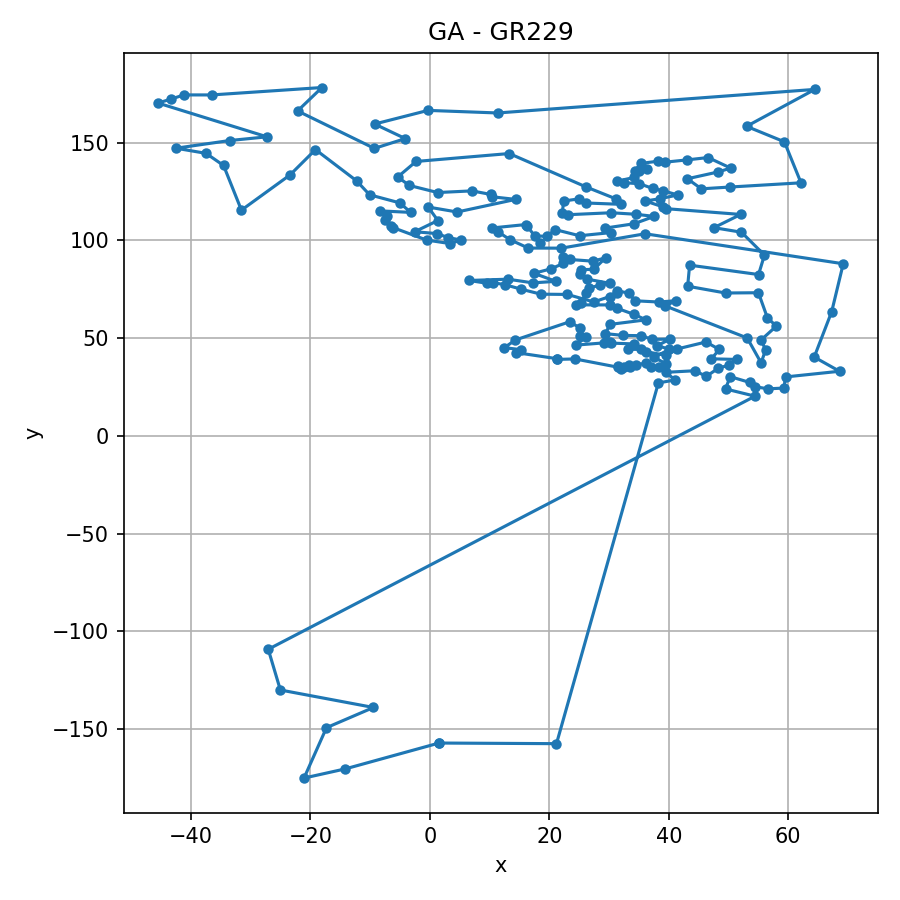
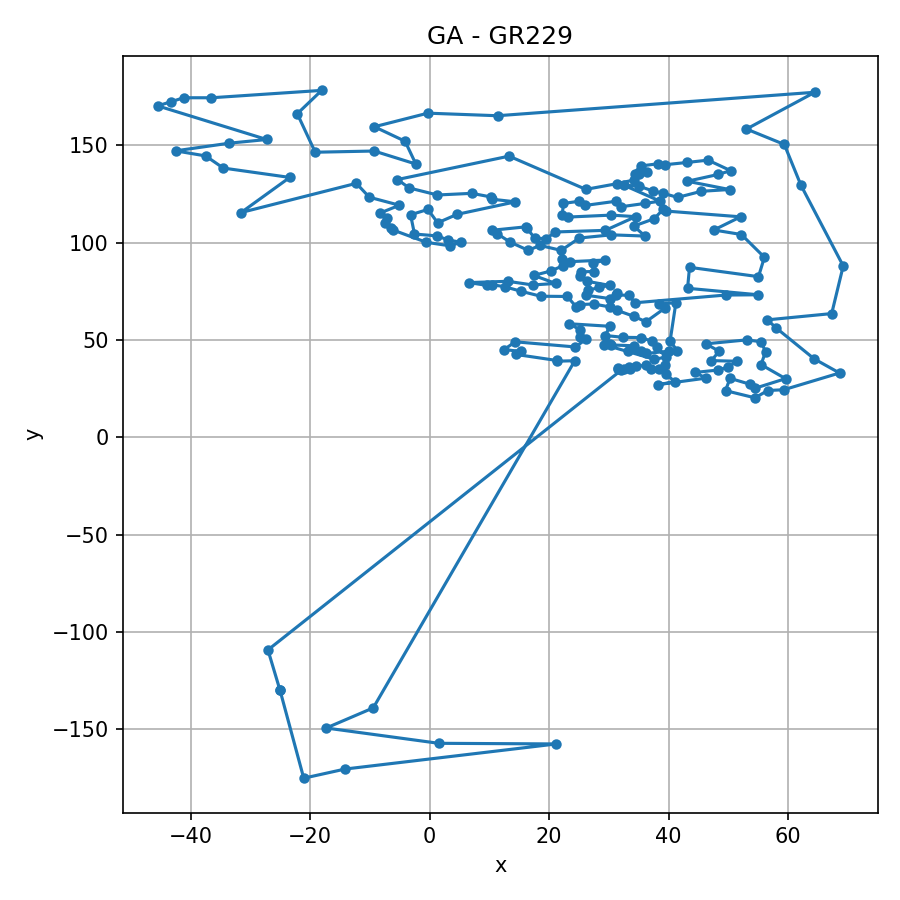
error reduction for GA fix

diff --git a/ga.py b/ga.py
@@ -1,39 +1,71 @@
 import numpy as np
 import random
-from distance import total_distance  # opcional; usamos safe_total_distance internamente
+from distance import total_distance
 
 
 # =========================
 # Utilidades de robustez
 # =========================
 def is_valid_perm(route, n):
-    return len(route) == n and len(set(route)) == n and min(route) >= 0 and max(route) < n
+    """Verifica si una ruta es una permutación válida de 0..n-1."""
+    if route is None or len(route) != n:
+        return False
+    try:
+        if min(route) < 0 or max(route) >= n:
+            return False
+    except ValueError:
+        return False
+    return len(set(route)) == n
 
 
 def repair_permutation(route, n):
+    """Repara duplicados y faltantes en O(n)."""
+    if route is None:
+        return list(range(n))
+
     seen = set()
-    missing = [g for g in range(n) if g not in route]
-    miss_idx = 0
+    dup_positions = []
     for i, g in enumerate(route):
         if g in seen or g < 0 or g >= n:
-            route[i] = missing[miss_idx]
-            miss_idx += 1
+            dup_positions.append(i)
         else:
             seen.add(g)
+
+    missing = list(set(range(n)) - seen)
+    random.shuffle(missing)
+
+    for i, pos in enumerate(dup_positions):
+        if i < len(missing):
+            route[pos] = missing[i]
+        else:
+            route[pos] = random.randint(0, n - 1)
     return route
 
 
 def safe_total_distance(D, route, big_penalty=1e12):
+    """Evalúa distancia total de una ruta; repara si es necesario."""
     n = D.shape[0]
+    if route is None or len(route) != n:
+        return big_penalty
+
+    try:
+        route = [int(x) for x in route]
+    except Exception:
+        return big_penalty
+
     if not is_valid_perm(route, n):
         route = repair_permutation(route, n)
     if not is_valid_perm(route, n):
         return big_penalty
 
-    dist = 0.0
-    for i in range(n):
-        dist += D[route[i], route[(i + 1) % n]]
-    if dist <= 0.0:
+    try:
+        idx = np.asarray(route, dtype=np.int32)
+        nxt = np.roll(idx, -1)
+        dist = float(D[idx, nxt].sum())
+    except Exception:
+        return big_penalty
+
+    if dist <= 0.0 or np.isnan(dist):
         return big_penalty
     return dist
 
@@ -54,32 +86,23 @@ def order_crossover(p1, p2):
     n = len(p1)
     a, b = sorted(random.sample(range(n), 2))
     child = [-1] * n
-
-    # Copiar segmento de p1
     child[a:b] = p1[a:b]
     used = set(p1[a:b])
+
     p2_filtered = [gene for gene in p2 if gene not in used]
     idx = 0
     for i in range(n):
-        if child[i] == -1:
-            if idx < len(p2_filtered):
-                child[i] = p2_filtered[idx]
-                idx += 1
-            else:
-                break  
-    repair_permutation(child, n)
-    return child
+        if child[i] == -1 and idx < len(p2_filtered):
+            child[i] = p2_filtered[idx]
+            idx += 1
+    return repair_permutation(child, n)
 
 
 def pmx_crossover(p1, p2):
     n = len(p1)
     a, b = sorted(random.sample(range(n), 2))
     child = [-1] * n
-
-    # Copiar segmento central de p1
     child[a:b] = p1[a:b]
-
-    # Mapeo entre segmentos p2 -> p1
     mapping = {p2[i]: p1[i] for i in range(a, b)}
 
     for i in range(n):
@@ -92,9 +115,7 @@ def pmx_crossover(p1, p2):
             val = mapping[val]
         child[i] = val
 
-    # Relleno y reparación por seguridad
-    repair_permutation(child, n)
-    return child
+    return repair_permutation(child, n)
 
 
 # =========================
@@ -103,17 +124,15 @@ def pmx_crossover(p1, p2):
 def swap_mutation(route):
     a, b = random.sample(range(len(route)), 2)
     route[a], route[b] = route[b], route[a]
-    repair_permutation(route, len(route))
 
 
 def reverse_mutation(route):
     a, b = sorted(random.sample(range(len(route)), 2))
     route[a:b] = reversed(route[a:b])
-    repair_permutation(route, len(route))
 
 
 # =========================
-# Heurística para población inicial
+# Heurísticas iniciales
 # =========================
 def nearest_neighbor_route(D, start=0):
     n = D.shape[0]
@@ -122,7 +141,6 @@ def nearest_neighbor_route(D, start=0):
     unvisited.remove(start)
     while unvisited:
         last = route[-1]
-        # ciudad más cercana aún no visitada
         next_city = min(unvisited, key=lambda j: D[last, j])
         route.append(next_city)
         unvisited.remove(next_city)
@@ -130,17 +148,37 @@ def nearest_neighbor_route(D, start=0):
 
 
 # =========================
+# Refinamiento local (2-opt)
+# =========================
+def two_opt(route, D, max_trials=150):
+    """Refina una ruta intercambiando segmentos si reduce la distancia."""
+    n = len(route)
+    best = route[:]
+    best_dist = safe_total_distance(D, best)
+    for _ in range(max_trials):
+        i, j = sorted(random.sample(range(1, n), 2))
+        if j - i <= 1:
+            continue
+        new_route = best[:]
+        new_route[i:j] = reversed(best[i:j])
+        new_dist = safe_total_distance(D, new_route)
+        if new_dist < best_dist:
+            best, best_dist = new_route, new_dist
+    return best
+
+
+# =========================
 # Algoritmo Genético
 # =========================
 def genetic_algorithm_tsp(
     D,
-    N=200,
-    maxIter=800,
-    crossover_rate=0.7,
-    mutation_rate=0.4,
-    elite_k=3,
+    N=400,
+    maxIter=1200,
+    crossover_rate=0.85,
+    mutation_rate=0.28,
+    elite_k=5,
     seed=None,
-    log_every=0,  # 0 = sin logs, >0 imprime cada 'log_every' iteraciones
+    log_every=100,
 ):
 
     if seed is not None:
@@ -149,39 +187,36 @@ def genetic_algorithm_tsp(
 
     n = D.shape[0]
 
-    # --- Población inicial: 80% aleatoria + 20% heurística NN
-    pop = [list(np.random.permutation(n)) for _ in range(int(N * 0.8))]
+    # Población inicial: 70 % aleatoria, 20 % NN, 10 % greedy inversa
+    pop = [list(np.random.permutation(n)) for _ in range(int(N * 0.7))]
     for i in range(int(N * 0.2)):
         pop.append(nearest_neighbor_route(D, start=i % n))
+    for i in range(int(N * 0.1)):
+        start = random.randint(0, n - 1)
+        route = list(np.argsort(D[start]))[::-1]
+        pop.append(route)
 
-    # Reparación por seguridad
-    for i in range(N):
-        repair_permutation(pop[i], n)
-
-    # Evaluación inicial segura
+    pop = [repair_permutation(p, n) for p in pop]
     fitness = [safe_total_distance(D, p) for p in pop]
 
-    # Mejor global
+    # Mejor inicial
     best_idx = int(np.argmin(fitness))
     best_route = pop[best_idx][:]
     best_cost = fitness[best_idx]
     best_history = [best_cost]
-
-    stagnation = 0  # generaciones sin mejorar
+    stagnation = 0
 
     for it in range(maxIter):
-        # Elitismo (preservar mejores)
         elites = sorted(zip(pop, fitness), key=lambda x: x[1])[:elite_k]
         new_pop = [e[0][:] for e in elites]
 
-        # Mutación adaptativa si no mejora
-        current_mut_rate = min(mutation_rate * (1.0 + stagnation / 50.0), 0.9)
-
+        # Mutación adaptativa
+        current_mut_rate = min(mutation_rate * (1.0 + stagnation / 40.0), 0.9)
         remaining = N - elite_k
         num_cross = int(round(remaining * crossover_rate))
         num_mut = remaining - num_cross
 
-        # --- Cruce
+        # Cruces
         for _ in range(num_cross):
             p1 = tournament_selection(pop, fitness)
             p2 = tournament_selection(pop, fitness)
@@ -191,7 +226,7 @@ def genetic_algorithm_tsp(
                 child = pmx_crossover(p1, p2)
             new_pop.append(child)
 
-        # --- Mutación (probabilística con tasa adaptativa)
+        # Mutaciones
         for _ in range(num_mut):
             indiv = tournament_selection(pop, fitness)
             mutated = indiv[:]
@@ -200,35 +235,42 @@ def genetic_algorithm_tsp(
                     swap_mutation(mutated)
                 else:
                     reverse_mutation(mutated)
-            # reparar por seguridad (no debería ser necesario, pero es barato)
-            repair_permutation(mutated, n)
             new_pop.append(mutated)
 
-        # Inyección de diversidad cada 100 iteraciones
-        if it > 0 and it % 100 == 0:
-            for _ in range(max(1, int(N * 0.1))):
-                pos = random.randint(0, N - 1)
+        # Reinyección si hay estancamiento
+        if stagnation > 200:
+            print(f"[GA] Reinitializing partial population at iter {it}")
+            for k in range(int(N * 0.3)):
+                pos = random.randint(elite_k, N - 1)
                 new_pop[pos] = list(np.random.permutation(n))
+            stagnation = 0
 
-        # Asegurar tamaño
+        # Mantener tamaño
         if len(new_pop) < N:
             while len(new_pop) < N:
                 new_pop.append(list(np.random.permutation(n)))
         elif len(new_pop) > N:
             new_pop = new_pop[:N]
 
-        # Preservar explícitamente el mejor global
         new_pop[0] = best_route[:]
 
-        # Evaluar generación
-        pop = new_pop
+        # Evaluación
+        pop = [repair_permutation(p, n) for p in new_pop]
         fitness = [safe_total_distance(D, p) for p in pop]
 
-        # Actualizar mejor
+        # Mejor actual
         current_best_idx = int(np.argmin(fitness))
-        current_best_route = repair_permutation(pop[current_best_idx][:], n)
-        current_best_cost = safe_total_distance(D, current_best_route)
+        current_best_route = pop[current_best_idx][:]
+        current_best_cost = fitness[current_best_idx]
 
+        # Refinamiento local cada 50 iteraciones
+        if it % 50 == 0:
+            refined = two_opt(best_route, D, max_trials=150)
+            refined_cost = safe_total_distance(D, refined)
+            if refined_cost < current_best_cost:
+                current_best_route, current_best_cost = refined, refined_cost
+
+        # Actualizar mejor global
         if current_best_cost < best_cost:
             best_cost = current_best_cost
             best_route = current_best_route[:]
@@ -239,6 +281,6 @@ def genetic_algorithm_tsp(
         best_history.append(best_cost)
 
         if log_every and (it % log_every == 0):
-            print(f"[GA] iter {it:4d} | best = {best_cost:.4f} | mut={current_mut_rate:.2f}")
+            print(f"[GA] iter {it:4d} | best={best_cost:.4f} | mut={current_mut_rate:.2f}")
 
     return best_route, best_cost, best_history

diff --git a/experiment.py b/experiment.py
@@ -30,13 +30,15 @@ def run_experiment(
     start = time.time()
     best_route, best_cost, best_history = genetic_algorithm_tsp(
         D,
-        N=N,
-        maxIter=maxIter,
-        crossover_rate=crossover_rate,
-        mutation_rate=mutation_rate,
-        elite_k=elite_k,
-        seed=seed
+        N=400,
+        maxIter=1200,
+        crossover_rate=0.85,
+        mutation_rate=0.28,
+        elite_k=5,
+        seed=42,
+        log_every=100
     )
+
     t_ga = time.time() - start
     print(f"[GA] n={n}  Mejor longitud: {best_cost:.4f}  Tiempo: {t_ga:.2f}s")
 
@@ -99,6 +101,6 @@ if __name__ == "__main__":
             "elite_k", "GA_len", "GA_time", "LP_len", "LP_time", "LP_vars", "LP_cons", "LP_status"
         ])
 
-    run_experiment("eil101.tsp", "EIL101", N=200, maxIter=800, seed=42)
-    run_experiment("gr229.tsp", "GR229", N=250, maxIter=1000, seed=123)
-    run_experiment("inventado100.tsp", "Inventado_100", N=150, maxIter=500, seed=99)
+    run_experiment("eil101.tsp", "EIL101", N=200, maxIter=1000, seed=40)
+    run_experiment("gr229.tsp", "GR229", N=250, maxIter=1000, seed=100)
+    run_experiment("inventado100.tsp", "Inventado_100", N=150, maxIter=500, seed=42)
